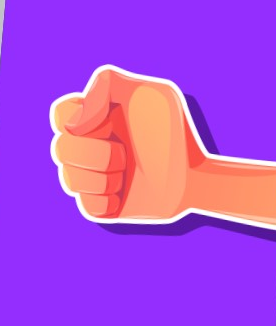
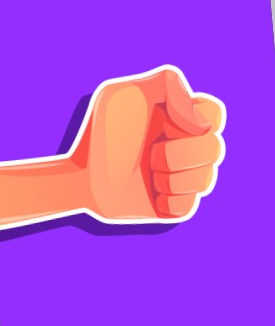
Responsive mode, new design, card with the choose picture

diff --git a/index.html b/index.html
@@ -18,29 +18,39 @@
       href="https://fonts.googleapis.com/css2?family=Poppins:ital,wght@0,100;0,200;0,300;0,400;0,500;0,600;0,700;0,800;0,900;1,100;1,200;1,300;1,400;1,500;1,600;1,700;1,800&family=Roboto:ital,wght@0,300;0,400;0,900;1,300;1,700&display=swap"
       rel="stylesheet"
     />
+    <!-- Fonts -->
+    <link rel="preconnect" href="https://fonts.googleapis.com" />
+    <link rel="preconnect" href="https://fonts.gstatic.com" crossorigin />
+    <link
+      href="https://fonts.googleapis.com/css2?family=Roboto:ital,wght@0,300;0,400;0,900;1,300;1,700&family=Saira:ital,wght@0,100;0,200;0,300;0,400;0,500;0,600;0,700;0,800;0,900;1,100;1,200;1,300;1,400;1,500;1,600;1,700;1,800;1,900&display=swap"
+      rel="stylesheet"
+    />
   </head>
   <body>
     <div class="container">
-      <div class="row m-5">
-        <div class="col-12 text-center"><h1>Piedra, Papel o Tijera</h1></div>
+      <div class="row mt-5 mt-md-3 mb-3 mb-md-1 p-0">
+        <div class="col-12 text-center">
+          <h1 class="">PIEDRA, PAPEL O TIJERA</h1>
+        </div>
       </div>
-
       <!-- Buttons options Rock, paper, scissors -->
-      <section class="buttonSelected row">
-        <div class="col-4 text-center">
-          <button class="choiceBtn" value="papel" id="paper">
-            <img src="assets\Papel.png" alt="" />
-          </button>
-        </div>
-        <div class="col-4 text-center">
-          <button class="choiceBtn" value="piedra" id="rock">
-            <img src="assets\piedra.png" alt="" />
-          </button>
-        </div>
-        <div class="col-4 text-center">
-          <button class="choiceBtn" value="tijera" id="scissors">
-            <img src="assets\tijera.png" alt="" />
-          </button>
+      <section class="buttonSelected p-md-5 mb-3 mb-md-2">
+        <div class="row justify-content-center">
+          <div class="col-4 col-md-2 text-center">
+            <button class="choiceBtn" value="papel" id="paper">
+              <img src="assets\papel1.png" alt="" />
+            </button>
+          </div>
+          <div class="col-4 col-md-2 text-center">
+            <button class="choiceBtn" value="piedra" id="rock">
+              <img src="assets\piedra1.png" alt="" />
+            </button>
+          </div>
+          <div class="col-4 col-md-2 text-center">
+            <button class="choiceBtn" value="tijera" id="scissors">
+              <img src="assets\tijera1.png" alt="" />
+            </button>
+          </div>
         </div>
       </section>
 
@@ -48,36 +58,43 @@
       <!-- <h1 class="gameText" id="computerText">Computadora:</h1> -->
       <!-- <h1 class="gameText" id="resultText">Resultado:</h1> -->
 
-      <div class="row justify-content-center">
-        <div class="col-6 text-end">
-          <div class="card tarjeta text-center align-self-center">
-            <div class="card-body">
-              <img src="assets\pregunta.png" alt="" />
-
-              <h1 class="gameText" id="playerText">Jugador:</h1>
+      <div class="row justify-content-center mb-3">
+        <div class="col-6">
+          <div class="col-11 col-md-4 offset-md-7">
+            <div class="card tarjeta text-center player-card p-1">
+              <img src="assets\guessing.png" id="playerPicked" alt="" />
+              <h3
+                class="gameText col-10 pb-1 ms-2 ms-md-3 align-text-center text-center"
+                id="playerText"
+              >
+                Jugador
+              </h3>
             </div>
           </div>
         </div>
-        <div class="col-6 ">
-          <div class="card p-0 tarjeta text-center align-self-center">
-            <div class="card-body ">
-              <img src="assets\pregunta.png" alt="" />
-             
-                 <h1 class="gameText" id="computerText">Computadora:</h1>
-           
-             
+
+        <div class="col-6">
+          <div class="col-11 col-md-4 offset-md-1">
+            <div class="card tarjeta text-center pc-card p-1">
+              <img src="assets\guessing.png" alt="" id="computerPicked" />
+
+              <h3
+                class="gameText ms-2 ms-md-3 pb-1 align-text-center text-center col-10"
+                id="computerText"
+              >
+                Compu
+              </h3>
             </div>
           </div>
         </div>
       </div>
-
-      <div class="row">
-        <div class="col justify-content-center">
-          <div class="">
-            <h1 class="gameText" id="resultText">Resultado:</h1>
+      <section class="result-section mt-5">
+        <div class="row justify-content-center ">
+          <div class="col-8 col-md-4 justify-content-center ">
+            <h1 class="ResultText text-center pb-2" id="resultText">Juguemos!</h1>
           </div>
         </div>
-      </div>
+      </section>
     </div>
 
     <script src="index.js"></script>

diff --git a/index.js b/index.js
@@ -15,10 +15,14 @@ let result;
 
 choiceBtns.forEach((button) =>
   button.addEventListener("click", () => {
-    player = button.value; 
+    player = button.value;
     computerTurn();
-    playerText.textContent = `Jugador: ${player}`;
-    computerText.textContent = `Computer: ${computer}`;
+    playerText.textContent = `${player}`;
+    let playerChoosen = eleccionPlayer(player);
+    playerPicked.src = images[playerChoosen];
+    computerText.textContent = `${computer}`;
+    let computerChoosen = eleccionPlayer(computer);
+    computerPicked.src = images[computerChoosen];
     resultText.textContent = checkWinner();
   })
 );
@@ -41,68 +45,45 @@ function computerTurn() {
 function checkWinner() {
   if (player == computer) {
     return "Empate";
-  }else if(player == "piedra" && computer == "tijera"){
-    return "Ganaste" 
-  }else if(player == "papel" && computer == "piedra"){
-    return "Ganaste"
-  } else if(player == "tijera" && computer == "papel"){
-    return  "Ganaste"
-  }else{
-    return "Perdiste" 
+  } else if (player == "piedra" && computer == "tijera") {
+    resultText.style.backgroundColor = "#5dc460";
+    resultText.style.color = "#fff";
+    return "Ganaste";
+  } else if (player == "papel" && computer == "piedra") {
+    resultText.style.backgroundColor = "#5dc460";
+    resultText.style.color = "#fff";
+
+    return "Ganaste";
+  } else if (player == "tijera" && computer == "papel") {
+    resultText.style.backgroundColor = "#5dc460";
+    resultText.style.color = "#fff";
+    return "Ganaste";
+  } else {
+    resultText.style.backgroundColor = "#e2504c";
+        resultText.style.color = "#fff";
+    return "Perdiste";
   }
 }
 
+let images = ["assets/papelChoose.png", "assets/piedraChoose.png", "assets/tijeraChoose.png"];
 
-// if (pc == jugador) {
-//   alert("Empate");
-// } else if (jugador == 1 && pc == 3) {
-//   alert("Ganaste");
-// } else if (jugador == 2 && pc == 1) {
-//   alert("Ganaste");
-// } else if (jugador == 3 && pc == 1) {
-//   alert("Ganaste");
-// } else {
-//   alert("Perdiste");
-// }
+function eleccionPlayer(player) {
+  let resultado;
+  if (player == "piedra") {
+    resultado = 1;
+  } else if (player == "tijera") {
+    resultado = 2;
+  } else if (player == "papel") {
+    resultado = 0;
+  }
+  return resultado;
+}
 
-// jugador = prompt("Elige: 1 para piedra, 2 para papel, 3 para tijera");
+// function carouselImage() {
+//   let n = 3;
+//   for (i = 0; i < n; i++) {
+//     computerPicked.src = images[i];
+//     n = n + 1;
+//   }
 
-// switch (jugador) {
-//   case "1":
-//     alert("Elegiste piedra");
-//     break;
-//   case "2":
-//     alert("Elegiste papel");
-//     break;
-//   case "3":
-//     alert("Elegiste tijera");
-//     break;
-//   default:
-//     alert("Elegiste caca");
-// }
-
-// switch (pc) {
-//   case 1:
-//     alert(" Pc elige piedra");
-//     break;
-//   case 2:
-//     alert(" Pc elige  papel");
-//     break;
-//   case 3:
-//     alert(" Pc elige  tijera");
-//     break;
-//   default:
-//     alert(" Pc elige  caca");
-// }
-
-// if (pc == jugador) {
-//   alert("Empate");
-// } else if (jugador == 1 && pc == 3) {
-//   alert("Ganaste");
-// } else if (jugador == 2 && pc == 1) {
-//   alert("Ganaste");
-// } else if (jugador == 3 && pc == 1) {
-//   alert("Ganaste");
-// } else {
-//   alert("Perdiste");
 // }

diff --git a/style.css b/style.css
@@ -5,37 +5,106 @@ body {
     rgba(151, 61, 215, 1) 0%,
     rgba(58, 168, 203, 1) 100%
   );
-  font-family: "Poppins", sans-serif;
+  font-family: "Saira", sans-serif;
 }
 * {
   color: #fff;
 }
 
+h1 {
+  font-weight: 700 !important;
+}
+.row {
+  height: 100%;
+}
+
 .tarjeta {
-  background: rgba(255, 255, 255, 0.5);
+  background: rgba(255, 255, 255, 0.5) !important;
   border-radius: 10px;
   width: 100%;
-  
+  position: relative;
+  /* overflow: hidden; */
+}
+
+.player-card {
+  transform: rotate(-6deg);
+  position: relative;
+  z-index: 2;
+}
+.player-card::before {
+  content: "";
+  inset: 0;
+  z-index: -1;
+  transform: rotate(-5deg);
+  position: absolute;
+  background: rgba(255, 255, 255, 0.15);
+}
+
+.pc-card {
+  transform: rotate(6deg);
+  position: relative;
+  z-index: 3;
+}
+
+.pc-card::before {
+  content: "";
+  inset: 0;
+  z-index: -1;
+  transform: rotate(5deg);
+  position: absolute;
+  background: rgba(255, 255, 255, 0.15);
+}
+
+.tarjeta img {
+  object-fit: cover;
+  height: 100%;
+  width: 100%;
 }
 
 .choiceBtn {
   border: none;
   background: none;
+  height: 100%;
+  object-fit: cover;
 }
 .choiceBtn img {
+  height: 100% !important;
+  width: 100% !important;
   object-fit: cover;
-  height: 100%;
-  width: 100%;
-  border: 7px solid #fff;
+  border: 5px solid #fff;
   border-radius: 100px;
-  transition-property: transform;
-  transition-duration: 0.4s;
+  transition: transform 500ms ease;
 }
 
 .choiceBtn img:hover {
   transform: scale(1.1);
 }
 
-.gameText{
-    background-color:grey;
+.gameText {
+  background: rgba(235, 234, 234, 0.9);
+  border: solid 2px #fff;
+  /* transform: translateY(-25px); */
+  bottom: -28px;
+  position: absolute;
+  /* transform: rotate(-6deg); */
+  
+  color: rgb(72, 74, 76);
+
+
+}
+
+.ResultText {
+  background: rgba(235, 234, 234, 0.9);
+  /* border: solid 2px  rgba(72, 74, 76, 0.9);    */
+  color: rgb(72, 74, 76);
+
+}
+
+.playerText,
+.computerText {
+  font-weight: light;
+}
+
+#computerPicked{
+  transform: scaleX(-1)
 }
